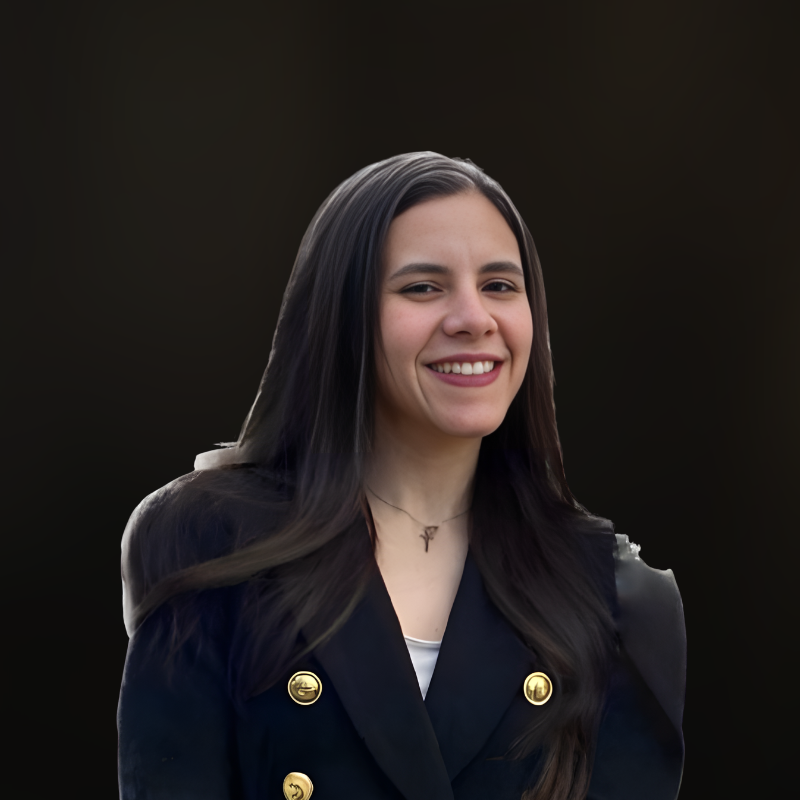
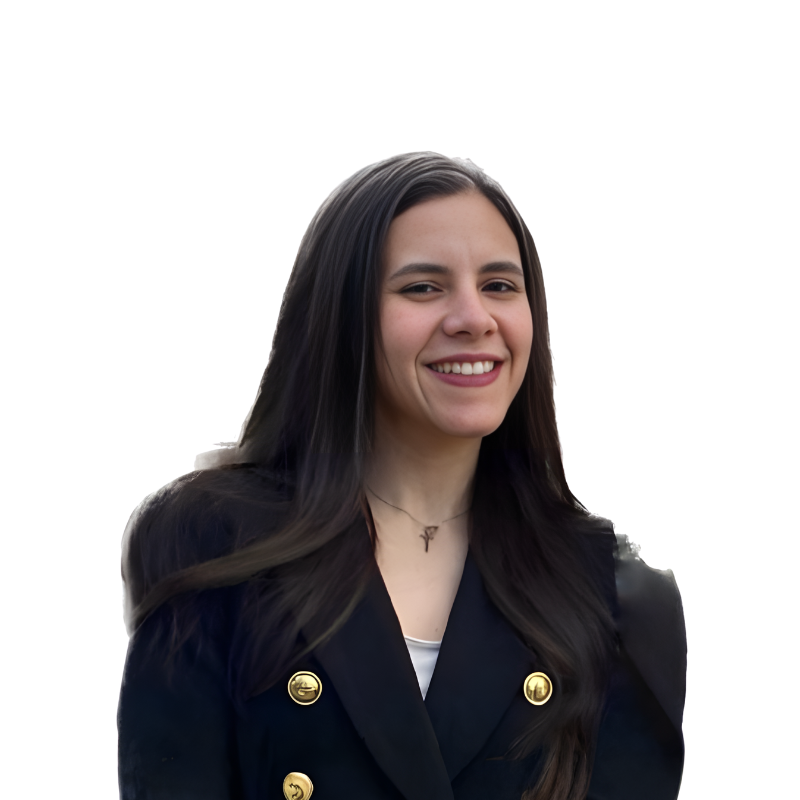
Add new company members: John Shedoudy, Mariam Mahmoud, and Omar Bazid
- Added 3 new Salesforce Consultants to the team
  - John Shedoudy: Expert in Salesforce implementation and optimization
  - Mariam Mahmoud: Specializing in configuration and user adoption
  - Omar Bazid: Focused on scalable Salesforce solutions

- Updated team member data across all pages:
  - src/data/teamMembers.ts: Added new members with descriptions
  - src/pages/About.tsx: Added to About page team section
  - src/pages/Home.tsx: Added to Home page hero section
  - src/pages/SalesforcePower.tsx: Added to scrolling team section

- Added translation keys for new hover elements:
  - optimization, userAdoption, training, scalability
  - English and Arabic translations included

- Updated member images:
  - Added new member images (John, Mariam, Omar)
  - Updated existing member images (Jenny, Marina)

diff --git a/src/pages/Home.tsx b/src/pages/Home.tsx
@@ -166,6 +166,30 @@ const Home = () => {
       hoverElements: [t('team.hoverElements.development'), t('team.hoverElements.configuration')],
       color: "from-blue-400 to-indigo-500",
       description: "Delivering expert Salesforce consulting services, Jenny helps businesses optimize their CRM processes and achieve their digital transformation goals."
+    },
+    { 
+      id: 19, name: "John Shedoudy", role: t('team.salesforceConsultant'), 
+      image: "/Assets/Company Members/John_Shedoudy_Salesforce_Consultant.png",
+      icons: [Settings, Wrench],
+      hoverElements: [t('team.hoverElements.configuration'), t('team.hoverElements.optimization')],
+      color: "from-teal-400 to-cyan-500",
+      description: "Expert in Salesforce implementation and optimization, John delivers tailored solutions that enhance business processes and drive operational efficiency."
+    },
+    { 
+      id: 20, name: "Mariam Mahmoud", role: t('team.salesforceConsultant'), 
+      image: "/Assets/Company Members/Mariam_Mahmoud_Salesforce_Consultant.png",
+      icons: [Users, UserCheck],
+      hoverElements: [t('team.hoverElements.userAdoption'), t('team.hoverElements.training')],
+      color: "from-purple-400 to-pink-500",
+      description: "Specializing in Salesforce configuration and user adoption, Mariam ensures seamless platform integration and empowers teams to maximize CRM value."
+    },
+    { 
+      id: 21, name: "Omar Bazid", role: t('team.salesforceConsultant'), 
+      image: "/Assets/Company Members/Omar_Bazid_Salesforce_Consultant.png",
+      icons: [TrendingUp, Target],
+      hoverElements: [t('team.hoverElements.scalability'), t('team.hoverElements.growth')],
+      color: "from-green-400 to-emerald-500",
+      description: "Focused on delivering scalable Salesforce solutions, Omar combines technical expertise with business acumen to transform customer engagement strategies."
     }
   ];
 

diff --git a/src/data/teamMembers.ts b/src/data/teamMembers.ts
@@ -158,6 +158,30 @@ export const teamMembers: TeamMember[] = [
     image: "/Assets/Company Members/Jenny_Maged_Salesforce_Consultant.png",
     profileSlug: "jenny-maged",
     description: "Delivering expert Salesforce consulting services, Jenny helps businesses optimize their CRM processes and achieve their digital transformation goals."
+  },
+  {
+    id: "john-shedoudy",
+    name: "John Shedoudy",
+    role: "Salesforce Consultant",
+    image: "/Assets/Company Members/John_Shedoudy_Salesforce_Consultant.png",
+    profileSlug: "john-shedoudy",
+    description: "Expert in Salesforce implementation and optimization, John delivers tailored solutions that enhance business processes and drive operational efficiency."
+  },
+  {
+    id: "mariam-mahmoud",
+    name: "Mariam Mahmoud",
+    role: "Salesforce Consultant",
+    image: "/Assets/Company Members/Mariam_Mahmoud_Salesforce_Consultant.png",
+    profileSlug: "mariam-mahmoud",
+    description: "Specializing in Salesforce configuration and user adoption, Mariam ensures seamless platform integration and empowers teams to maximize CRM value."
+  },
+  {
+    id: "omar-bazid",
+    name: "Omar Bazid",
+    role: "Salesforce Consultant",
+    image: "/Assets/Company Members/Omar_Bazid_Salesforce_Consultant.png",
+    profileSlug: "omar-bazid",
+    description: "Focused on delivering scalable Salesforce solutions, Omar combines technical expertise with business acumen to transform customer engagement strategies."
   }
 ];
 

diff --git a/src/pages/About.tsx b/src/pages/About.tsx
@@ -158,6 +158,30 @@ const About = () => {
       icons: [Code, Settings],
       hoverElements: [t('team.hoverElements.development'), t('team.hoverElements.configuration')],
       color: "from-blue-400 to-indigo-500"
+    },
+    { 
+      id: 19, name: "John Shedoudy", 
+      role: t('team.salesforceConsultant'), 
+      image: "/Assets/Company Members/John_Shedoudy_Salesforce_Consultant.png",
+      icons: [Settings, Wrench],
+      hoverElements: [t('team.hoverElements.configuration'), t('team.hoverElements.optimization')],
+      color: "from-teal-400 to-cyan-500"
+    },
+    { 
+      id: 20, name: "Mariam Mahmoud", 
+      role: t('team.salesforceConsultant'), 
+      image: "/Assets/Company Members/Mariam_Mahmoud_Salesforce_Consultant.png",
+      icons: [Users, UserCheck],
+      hoverElements: [t('team.hoverElements.userAdoption'), t('team.hoverElements.training')],
+      color: "from-purple-400 to-pink-500"
+    },
+    { 
+      id: 21, name: "Omar Bazid", 
+      role: t('team.salesforceConsultant'), 
+      image: "/Assets/Company Members/Omar_Bazid_Salesforce_Consultant.png",
+      icons: [TrendingUp, Target],
+      hoverElements: [t('team.hoverElements.scalability'), t('team.hoverElements.growth')],
+      color: "from-green-400 to-emerald-500"
     }
   ];
 

diff --git a/src/pages/SalesforcePower.tsx b/src/pages/SalesforcePower.tsx
@@ -1853,7 +1853,10 @@ const SalesforcePower = () => {
                   { name: 'Maheen Imran', role: 'Salesforce Consultant', image: 'Maheen_Imran_Salesforce_Consultant.png' },
                   { name: 'Carine Felix', role: 'Brand and People Experience Specialist', image: 'Carine_Felix_Brand_and_People_Experience_Specialist.png' },
                   { name: 'Marina Danial', role: 'CFO Cloudastick and COO of Techsa', image: 'Marina_Danial_CFO_Cloudastick_and_COO_of_Techsa.png' },
-                  { name: 'Jenny Maged', role: 'Salesforce Consultant', image: 'Jenny_Maged_Salesforce_Consultant.png' }
+                  { name: 'Jenny Maged', role: 'Salesforce Consultant', image: 'Jenny_Maged_Salesforce_Consultant.png' },
+                  { name: 'John Shedoudy', role: 'Salesforce Consultant', image: 'John_Shedoudy_Salesforce_Consultant.png' },
+                  { name: 'Mariam Mahmoud', role: 'Salesforce Consultant', image: 'Mariam_Mahmoud_Salesforce_Consultant.png' },
+                  { name: 'Omar Bazid', role: 'Salesforce Consultant', image: 'Omar_Bazid_Salesforce_Consultant.png' }
                 ];
 
                 return [...teamMembers, ...teamMembers].map((member, index) => (

diff --git a/src/contexts/LanguageContext.tsx b/src/contexts/LanguageContext.tsx
@@ -475,6 +475,10 @@ const translations = {
     'team.hoverElements.emailMarketing': 'Email Marketing',
     'team.hoverElements.projectDelivery': 'Project Delivery',
     'team.hoverElements.timeline': 'Timeline',
+    'team.hoverElements.optimization': 'Optimization',
+    'team.hoverElements.userAdoption': 'User Adoption',
+    'team.hoverElements.training': 'Training',
+    'team.hoverElements.scalability': 'Scalability',
     'team.technicalArchitect': 'Technical Architect',
     'team.projectManager': 'Project Manager',
     
@@ -964,6 +968,10 @@ const translations = {
     'team.hoverElements.emailMarketing': 'التسويق عبر البريد الإلكتروني',
     'team.hoverElements.projectDelivery': 'تسليم المشروع',
     'team.hoverElements.timeline': 'الجدول الزمني',
+    'team.hoverElements.optimization': 'التحسين',
+    'team.hoverElements.userAdoption': 'اعتماد المستخدم',
+    'team.hoverElements.training': 'التدريب',
+    'team.hoverElements.scalability': 'قابلية التوسع',
     'team.technicalArchitect': 'مهندس معماري تقني',
     'team.projectManager': 'مدير المشروع',
     
